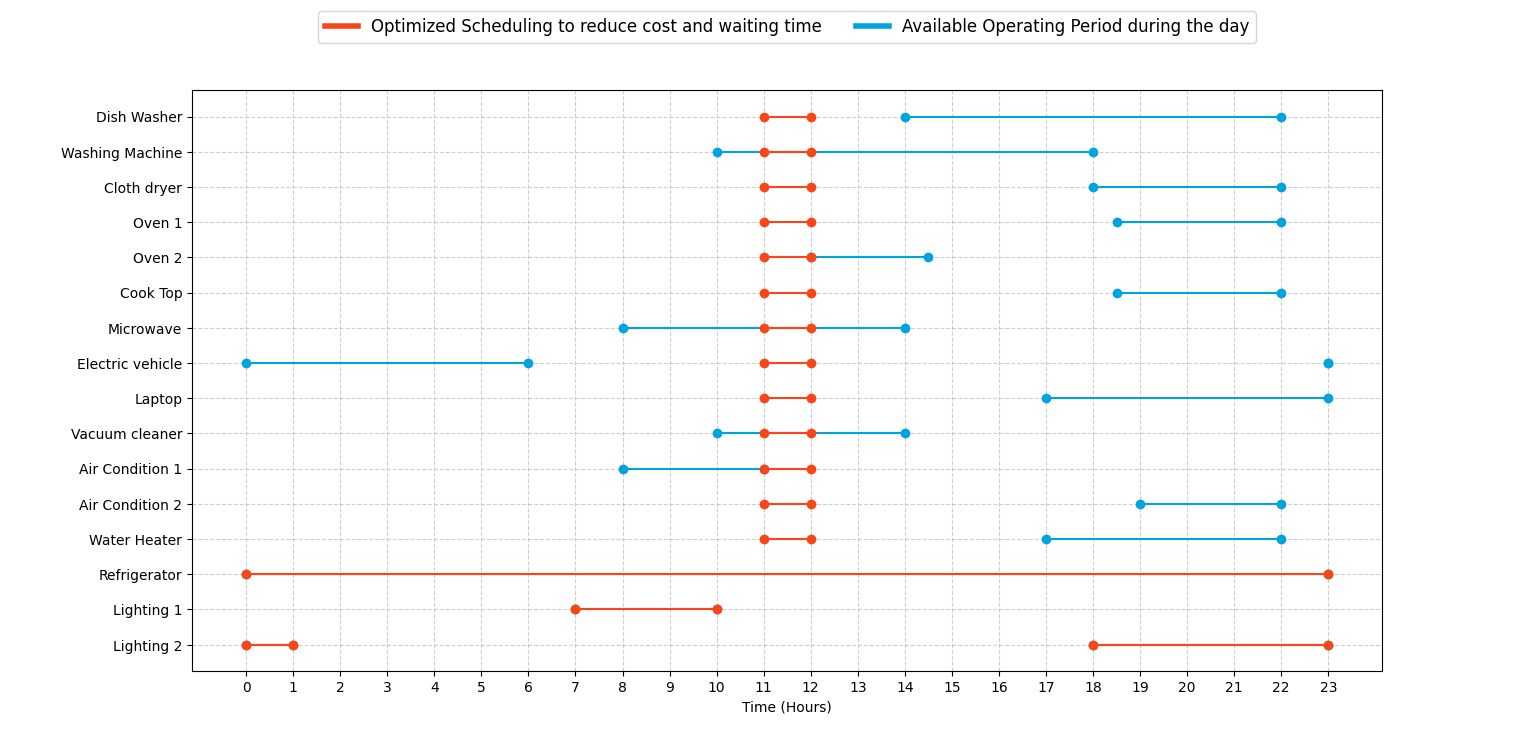
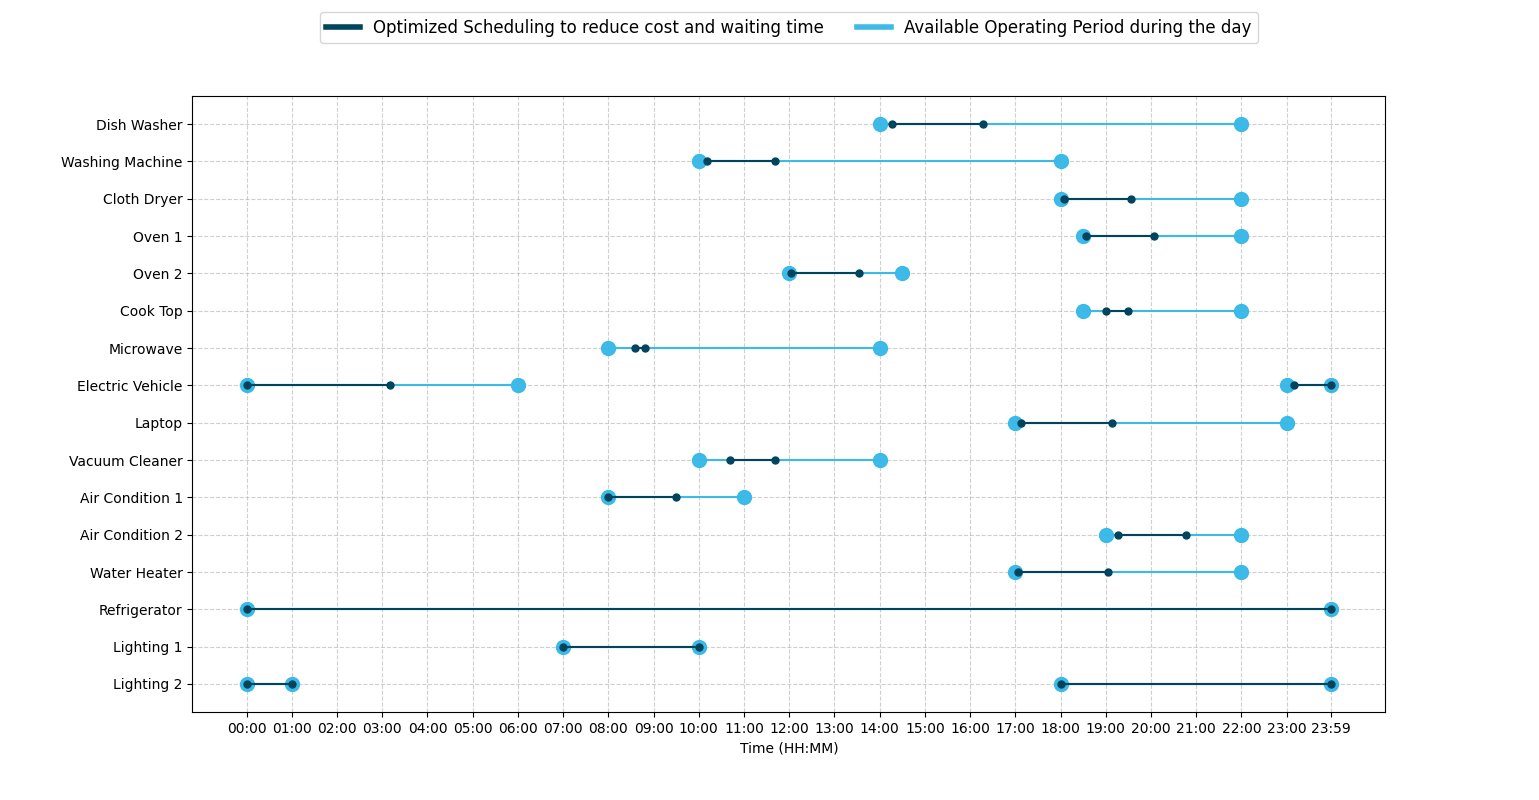
image added

diff --git a/back_new/diagramMat.py b/back_new/diagramMat.py
@@ -1,0 +1,140 @@
+from matplotlib.lines import Line2D
+import matplotlib.pyplot as plt
+import matplotlib.dates as mdates
+import datetime
+
+solution = {
+    "Dish Washer": (857,977),
+    "Washing Machine": (611, 701),
+    "Cloth Dryer": (1084, 1174),
+    "Oven 1": (1114, 1204),
+    "Oven 2": (722, 812),
+    "Cook Top": (1140, 1170),
+    "Microwave": (516, 528),
+    "Electric Vehicle": (1390, 190), # 1390 + 240 = 1630 and to start from 0 i do 1630 - 1440 = 190
+    "Laptop": (1028, 1148),
+    "Vacuum Cleaner": (641, 701),
+    "Air Condition 1": (480, 570),
+    "Air Condition 2": (1156, 1246),
+    "Water Heater": (1023, 1143),
+    "Refrigerator": (0, 1440),
+    "Lighting 1": (420, 600),
+    "Lighting 2": (1080, 60)
+}
+
+
+def convert_minutes_to_time(minutes):
+    """Convert minutes since midnight to HH:MM format."""
+    hours = minutes // 60
+    mins = minutes % 60
+    return f"{hours:02d}:{mins:02d}"
+
+
+def transform_solution(solution):
+    """Convert solution dictionary values to HH:MM format while keeping the structure."""
+    period = {}
+    
+    for device, times in solution.items():
+        if isinstance(times, tuple):  # If the value is a tuple
+            period[device] = tuple(convert_minutes_to_time(t) for t in times)
+        else:  # If it's a single integer
+            period[device] = convert_minutes_to_time(times)
+    
+    return period
+
+period = transform_solution(solution)
+
+# Updated data with "HH:MM" format
+allocationplot = {
+    "Dish Washer": {"schedule": ("14:00", "22:00"), "period": period['Dish Washer']},
+    "Washing Machine": {"schedule": ("10:00", "18:00"), "period": period['Washing Machine']},
+    "Cloth Dryer": {"schedule": ("18:00", "22:00"), "period":period['Cloth Dryer']},
+    "Oven 1": {"schedule": ("18:30", "22:00"), "period": period['Oven 1']},
+    "Oven 2": {"schedule": ("12:00", "14:30"), "period": period['Oven 2']},
+    "Cook Top": {"schedule": ("18:30", "22:00"), "period": period['Cook Top']},
+    "Microwave": {"schedule": ("08:00", "14:00"), "period": period['Microwave']},
+    "Electric Vehicle": {"schedule": ("23:00", "06:00"), "period": period['Electric Vehicle']},
+    "Laptop": {"schedule": ("17:00", "23:00"), "period": period['Laptop']},
+    "Vacuum Cleaner": {"schedule": ("10:00", "14:00"), "period": period['Vacuum Cleaner']},
+    "Air Condition 1": {"schedule": ("08:00", "11:00"), "period": period['Air Condition 1']},
+    "Air Condition 2": {"schedule": ("19:00", "22:00"), "period": period['Air Condition 2']},
+    "Water Heater": {"schedule": ("17:00", "22:00"), "period": period['Water Heater']},
+    "Refrigerator": {"schedule": ("00:00", "24:00"), "period": period['Refrigerator']},
+    "Lighting 1": {"schedule": ("07:00", "10:00"), "period": period['Lighting 1']},
+    "Lighting 2": {"schedule": ("18:00", "01:00"), "period": period['Lighting 2']},
+}
+
+def convert_to_time(time_str):
+    """Convert 'HH:MM' string to a datetime object."""
+    hours, minutes = map(int, time_str.split(":"))
+    if hours >= 24:  # Handle edge case where time is 24:00
+        hours = 23
+        minutes = 59
+    return datetime.datetime(2024, 1, 1, hours, minutes)
+
+def split_time_range(time_range):
+    """Handle overnight schedules that cross midnight."""
+    start, end = time_range
+    if convert_to_time(start) > convert_to_time(end):  # Overnight case
+        return [(start, "24:00"), ("00:00", end)]
+    return [time_range]
+
+def main():
+    device_positions = list(range(len(allocationplot), 0, -1))
+
+    fig, ax = plt.subplots(figsize=(16, 8))
+
+    # Iterate through devices and plot schedules
+    for idx, (device, times) in enumerate(allocationplot.items()):
+        y_pos = device_positions[idx]
+
+        # Convert schedule and period times to datetime format
+        for segment in split_time_range(times["schedule"]):
+            ax.plot(
+                [convert_to_time(segment[0]), convert_to_time(segment[1])],
+                [y_pos, y_pos],
+                color="#39b9e7fa",
+                marker="o",
+                markersize=10
+            )
+
+        for segment in split_time_range(times["period"]):
+            ax.plot(
+                [convert_to_time(segment[0]), convert_to_time(segment[1])],
+                [y_pos, y_pos],
+                color= "#01445D",
+                marker="o",
+                markersize=5,
+
+            )
+
+    # Formatting
+    ax.set_yticks(device_positions)
+    ax.set_yticklabels(allocationplot.keys())
+
+    # Set x-axis format
+    ax.xaxis.set_major_formatter(mdates.DateFormatter("%H:%M"))
+    ax.set_xlabel("Time (HH:MM)")
+    ax.grid(True, linestyle="--", alpha=0.6)
+
+    # Generate time ticks from 00:00 to 23:59
+    time_ticks = [convert_to_time(f"{h:02d}:00") for h in range(0, 24)] + [convert_to_time("23:59")]
+    ax.set_xticks(time_ticks)
+
+    legend_elements = [
+        Line2D([0], [0], color="#01445D", lw=4, label="Optimized Scheduling to reduce cost and waiting time"),
+        Line2D([0], [0], color="#39b9e7fa", lw=4, label="Available Operating Period during the day")
+    ]
+    ax.legend(
+        handles=legend_elements,
+        loc="upper center",
+        fontsize=12,
+        frameon=True,
+        bbox_to_anchor=(0.5, 1.15),
+        ncol=2
+    )
+
+    return plt, fig
+
+plt, fig = main()
+plt.show()
